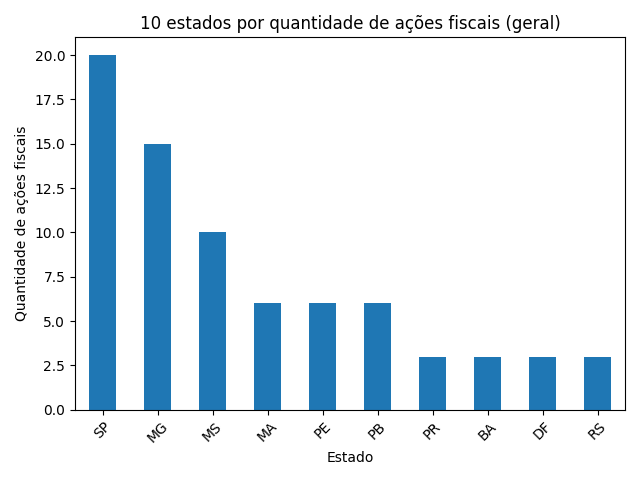
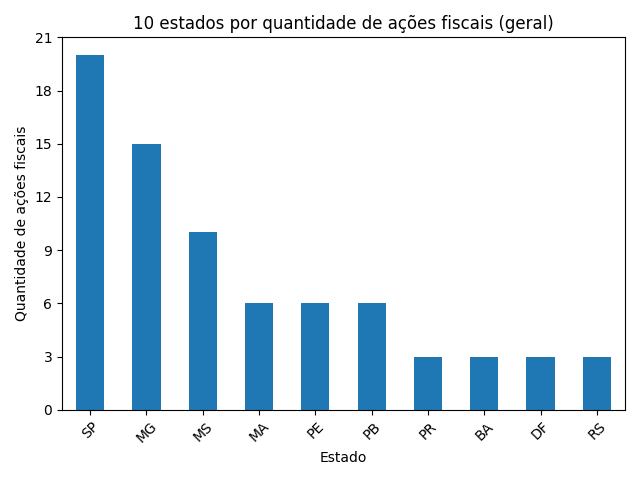
codigando

diff --git a/scripts/analisadado.py b/scripts/analisadado.py
@@ -1,6 +1,7 @@
 import os
 import arrancadado
 import matplotlib.pyplot as plt
+import matplotlib.ticker as ticker
 import pandas as pd
 
 # isso [e só no windows] :/
@@ -138,6 +139,7 @@ plt.clf()
 
 # estadis por ações ficais
 
+
 top_estados_geral = (
     df.groupby("UF")
     .size()
@@ -150,7 +152,10 @@ plt.title("10 estados por quantidade de ações fiscais (geral)")
 plt.xlabel("Estado")
 plt.ylabel("Quantidade de ações fiscais")
 plt.xticks(rotation=45)
-plt.tight_layout()
 
+# 👇 força números inteiros no eixo Y
+plt.gca().yaxis.set_major_locator(ticker.MaxNLocator(integer=True)) # como assim o ticker não vem integrado?
+
+plt.tight_layout()
 plt.savefig("./output/top_estados_geral.png")
 plt.clf()
